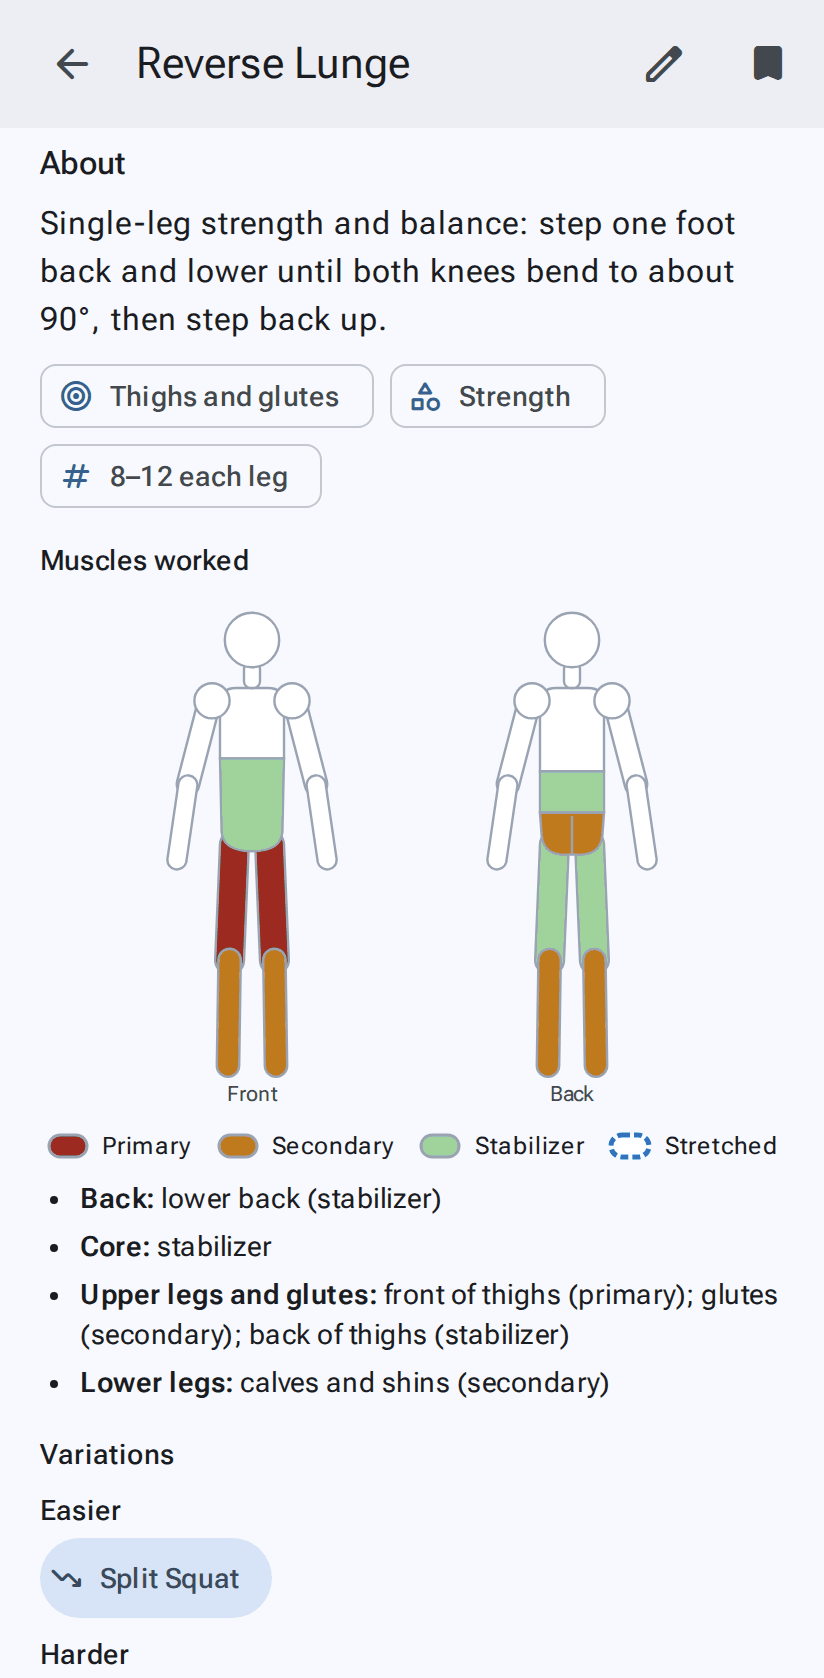
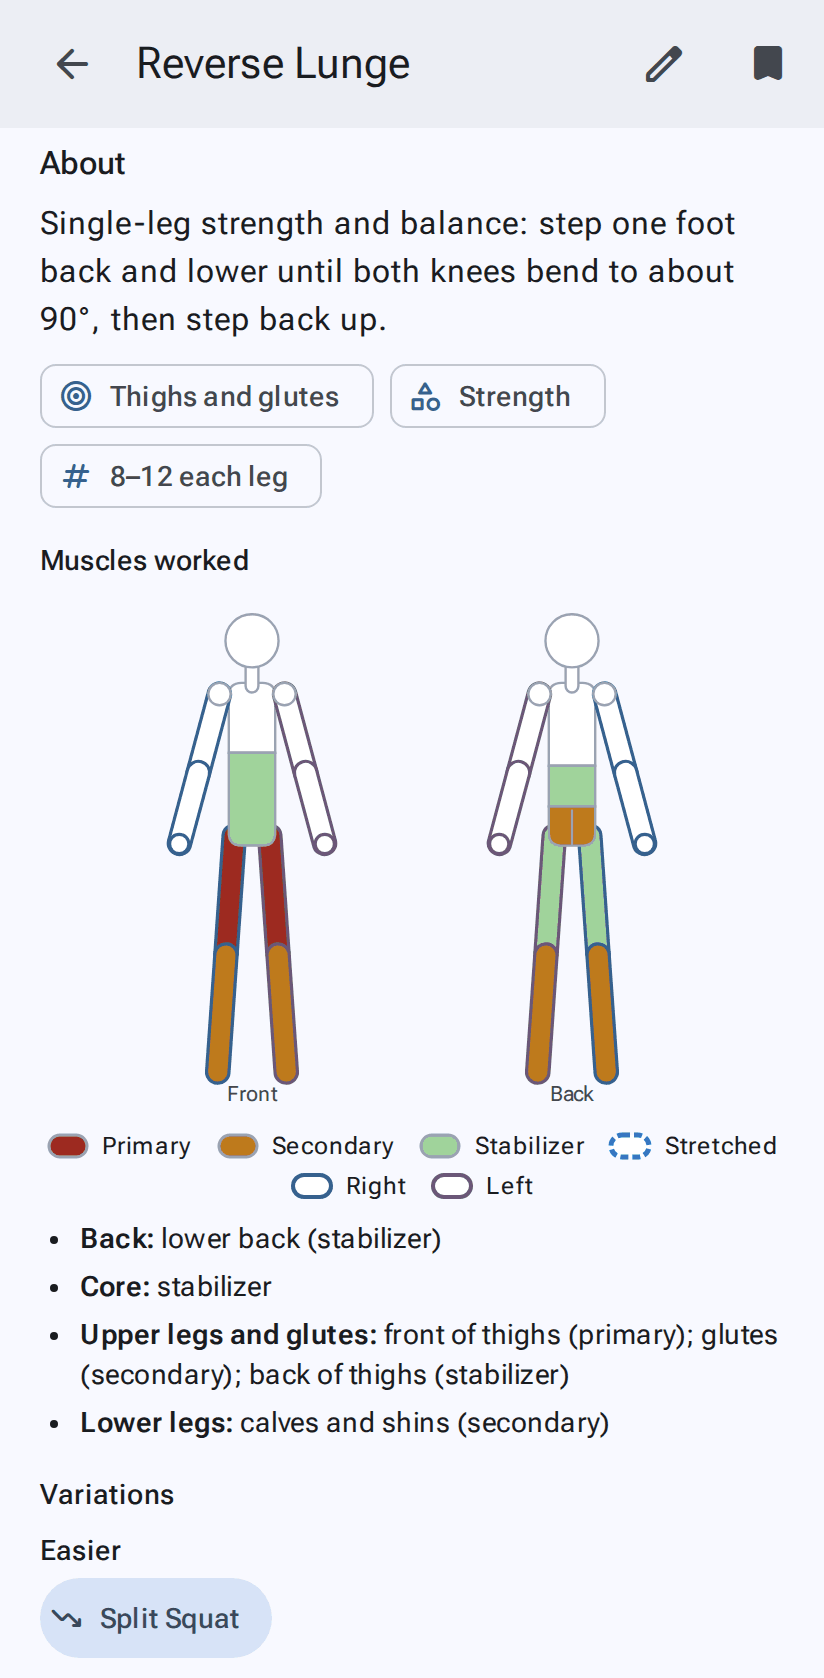
Muscle map: the animated figure's own body, limbs in the side colours
The map's outline is drawn from the engine's standing body (DEFAULT_SEGMENTS,
arms 15° out, feet apart) at cameras 0 and 180: even 14-wide limbs, a 29-wide
torso split into its groups, limb-wide shoulder circles at the arm joints, a short
neck, hands and feet; each limb outlined in its side's colour as in the player,
with Right and Left in the legends.

Claude-Session: https://claude.ai/code/session_0133kyx5MPf8aRU2sQwm2BG7

diff --git a/src/app/2-muscles.js b/src/app/2-muscles.js
@@ -1,6 +1,6 @@
 /* ===================== Muscle groups (HANDOFF §13, docs/muscles.md) =====================
    Each exercise rates 11 groups 1–3 ("muscles": 3 primary, 2 secondary, 1 stabilizer) and lists the groups it
-   stretches. The exercise page shows them on a front and back outline of the stick figure (capsule limbs, round head),
+   stretches. The exercise page shows them on a front and back outline of the stick figure (its own standing body),
    coloured by rating (the --mg-* colours: darker = more in the light theme, brighter = more in the dark one), stretched
    groups outlined in dashed blue, with a legend and a text list. A user's copy of a library exercise (basedOn) that
    has no ratings of its own shows its original's. */
@@ -79,7 +79,7 @@ function workoutMusclesHTML(w, compact) {
   const words = g => [t[g] >= 0.05 ? mgNum(t[g]) : '', st.has(g) ? 'stretched' : ''].filter(Boolean).join(', ');
   const list = MUSCLE_HEADS.map(([h, gs]) => { const x = gs.filter(g => t[g] >= 0.05 || st.has(g));
     return x.length ? `<li><b>${h}:</b> ${x.map(g => MUSCLE_NAMES[g] === h ? words(g) : `${MUSCLE_NAMES[g].toLowerCase()} ${words(g)}`).join('; ')}</li>` : ''; }).join('');
-  return `${fig}${MG_SCALE}${stList.length ? `<div class="mg-legend body-small" aria-hidden="true">${mgSwatch('var(--mg-empty)', true, 'Stretched')}</div>` : ''}<p class="body-small muted mg-note">Estimated work, in sets: green up to 2, amber 2–5, red above 5. A set near the suggested reps counts 1; muscles that help count ½, those that steady you ¼. Stretches don't add to the sets: a dashed blue outline marks every group the workout stretches.${unrated ? ` ${plural(unrated, { one: '# exercise has', other: '# exercises have' })} no muscle ratings.` : ''}</p>
+  return `${fig}${MG_SCALE}<div class="mg-legend body-small" aria-hidden="true">${stList.length ? mgSwatch('var(--mg-empty)', true, 'Stretched') : ''}${mgSides()}</div><p class="body-small muted mg-note">Estimated work, in sets: green up to 2, amber 2–5, red above 5. A set near the suggested reps counts 1; muscles that help count ½, those that steady you ¼. Stretches don't add to the sets: a dashed blue outline marks every group the workout stretches.${unrated ? ` ${plural(unrated, { one: '# exercise has', other: '# exercises have' })} no muscle ratings.` : ''}</p>
     <ul class="mg-list body-medium">${list}</ul>`;
 }
 /* "Works the front of thighs and glutes" for a card's label */
@@ -88,33 +88,57 @@ function worksText(ex) {
   const p = MUSCLE_GROUPS.filter(g => r.muscles[g] === 3).map(g => MUSCLE_NAMES[g].toLowerCase());
   return p.length ? `Works ${p.length > 1 ? p.slice(0, -1).join(', ') + ' and ' + p[p.length - 1] : p[0]}` : '';
 }
-/* the outline: fill(g) gives a group's fill (null = empty), stretched(g) whether it's outlined as stretched */
+/* The outline is the animated figure itself (owner, Oct 2026: shaped alike): the engine's standing body, arms 15° out
+   and feet a little apart, seen from the front (camera 0) and the back (180), drawn as even capsules along its bones
+   (MG_LIMB wide), a slimmer torso split into its groups, the shoulders as limb-wide circles at the arm joints, a short
+   neck, the head, and plain hands and feet. Each limb is outlined in its side's colour, as in the player (right blue,
+   left purple: seen from the front, the figure's right is on the left). fill(g) gives a group's fill (null = empty),
+   stretched(g) whether it's outlined as stretched (dashed, over the side colour). */
+const MG_LIMB = 14, MG_TORSO = 29;
+let MG_BODY = null;
+function mgBody() {
+  if (MG_BODY) return MG_BODY;
+  const seg = DEFAULT_SEGMENTS, pose = normPose({ shoulderL: [0, 15, 0], shoulderR: [0, 15, 0], hipL: [0, 4, 0], hipR: [0, 4, 0] });
+  const P = fkAt(pose, seg, { x: 0, y: 0, z: 0 }), low = Math.min(...Object.values(P).map(q => q.y));
+  for (const k in P) P[k] = { ...P[k], y: P[k].y - low };
+  // screen points of each view, scaled so the head's top is at 12 and the floor at 300 (of the 326-high map)
+  const top = P.headTop.y + 2, s = 288 / top;
+  const view = yaw => { const Q = project(P, yaw), out = {}; for (const k in Q) out[k] = { x: 100 + (Q[k].x - CX) * s, y: 300 - (FLOOR - Q[k].y) * s }; return out; };
+  return (MG_BODY = { front: view(0), back: view(180), s, head: seg.head * s });
+}
 function muscleFigure(fill, stretched, label) {
-  const f = n => n.toFixed(1);
-  const attrs = g => { const s = stretched(g); return `fill="${fill(g) || 'var(--mg-empty)'}" stroke="${s ? 'var(--mg-stretch)' : 'var(--mg-line)'}" stroke-width="${s ? 4 : 1.5}"${s ? ' stroke-dasharray="6 3"' : ''}`; };
-  const cap = (x1, y1, x2, y2, w, g) => {
-    const len = Math.hypot(x2 - x1, y2 - y1), r = w / 2, nx = -(y2 - y1) / len * r, ny = (x2 - x1) / len * r;
-    return `<path d="M${f(x1 + nx)} ${f(y1 + ny)}L${f(x2 + nx)} ${f(y2 + ny)}A${r} ${r} 0 0 0 ${f(x2 - nx)} ${f(y2 - ny)}L${f(x1 - nx)} ${f(y1 - ny)}A${r} ${r} 0 0 0 ${f(x1 + nx)} ${f(y1 + ny)}Z" ${attrs(g)}/>`;
+  const f = n => n.toFixed(1), B = mgBody();
+  // a part's fill and outline: the side's colour for a limb, the line colour for the body; stretched: dashed blue
+  const attrs = (g, side) => { const st = g && stretched(g), line = side === 'R' ? 'var(--md-primary)' : side === 'L' ? 'var(--md-tertiary)' : 'var(--mg-line)';
+    return `fill="${(g && fill(g)) || 'var(--mg-empty)'}" stroke="${st ? 'var(--mg-stretch)' : line}" stroke-width="${st ? 4 : side ? 2 : 1.5}"${st ? ' stroke-dasharray="6 3"' : ''}`; };
+  const cap = (a, b, w, g, side) => {
+    const len = Math.hypot(b.x - a.x, b.y - a.y) || 0.01, r = w / 2, nx = -(b.y - a.y) / len * r, ny = (b.x - a.x) / len * r;
+    return `<path d="M${f(a.x + nx)} ${f(a.y + ny)}L${f(b.x + nx)} ${f(b.y + ny)}A${r} ${r} 0 0 0 ${f(b.x - nx)} ${f(b.y - ny)}L${f(a.x - nx)} ${f(a.y - ny)}A${r} ${r} 0 0 0 ${f(a.x + nx)} ${f(a.y + ny)}Z" ${attrs(g, side)}/>`;
   };
+  const dot = (p, r, g, side) => `<circle cx="${f(p.x)}" cy="${f(p.y)}" r="${f(r)}" ${attrs(g, side)}/>`;
   const view = (front, x0) => {
-    const X = x => x + x0;
-    const arm = d => { const sx = X(100 + d * 27), ex = X(100 + d * 40), hx = X(100 + d * 47);
-      return cap(sx, 70, ex, 120, 14, front ? 'biceps' : 'triceps') + cap(ex, 120, hx, 168, 12, 'biceps'); };
-    const leg = d => { const hx = X(100 + d * 11), kx = X(100 + d * 14), ax = X(100 + d * 15);
-      return cap(hx, 158, kx, 230, 18, front ? 'frontThigh' : 'backThigh') + cap(kx, 230, ax, 296, 14, 'lowerLegs'); };
-    const top = bottom => `M${X(80)} 70 Q${X(80)} 60 ${X(90)} 60 L${X(110)} 60 Q${X(120)} 60 ${X(120)} 70 L${X(120)} ${bottom} L${X(80)} ${bottom} Z`;
-    const torso = front
-      ? `<path d="${top(104)}" ${attrs('chest')}/><path d="M${X(80)} 104 L${X(120)} 104 L${X(119)} 150 Q${X(118)} 162 ${X(100)} 162 Q${X(82)} 162 ${X(81)} 150 Z" ${attrs('core')}/>`
-      : `<path d="${top(112)}" ${attrs('upperBack')}/><path d="M${X(80)} 112 L${X(120)} 112 L${X(120)} 138 L${X(80)} 138 Z" ${attrs('lowerBack')}/>
-         <path d="M${X(80)} 138 L${X(120)} 138 L${X(119)} 152 Q${X(118)} 166 ${X(100)} 164 Q${X(82)} 166 ${X(81)} 152 Z" ${attrs('glutes')}/>
-         <line x1="${X(100)}" y1="140" x2="${X(100)}" y2="164" stroke="var(--mg-line)" stroke-width="1.5"/>`;
-    const shoulders = [-1, 1].map(d => `<circle cx="${X(100 + d * 25)}" cy="68" r="11" ${attrs('shoulders')}/>`).join('');
-    return `${leg(-1)}${leg(1)}${arm(-1)}${arm(1)}${torso}${shoulders}
-      <rect x="${X(95)}" y="44" width="10" height="16" rx="4" fill="var(--mg-empty)" stroke="var(--mg-line)" stroke-width="1.5"/><circle cx="${X(100)}" cy="30" r="17" fill="var(--mg-empty)" stroke="var(--mg-line)" stroke-width="1.5"/>
-      <text x="${X(100)}" y="318" text-anchor="middle" font-size="13" fill="var(--md-on-surface-variant)">${front ? 'Front' : 'Back'}</text>`;
+    const V = front ? B.front : B.back, Q = {}; for (const k in V) Q[k] = { x: V[k].x + x0, y: V[k].y };
+    const legs = ['L', 'R'].map(d => cap(Q['ankle' + d], Q['toe' + d], 10, null, d) +
+      cap(Q['hip' + d], Q['knee' + d], MG_LIMB, front ? 'frontThigh' : 'backThigh', d) + cap(Q['knee' + d], Q['ankle' + d], MG_LIMB, 'lowerLegs', d)).join('');
+    const arms = ['L', 'R'].map(d => cap(Q['shoulder' + d], Q['elbow' + d], MG_LIMB, front ? 'biceps' : 'triceps', d) +
+      cap(Q['elbow' + d], Q['hand' + d], MG_LIMB, 'biceps', d) + dot(Q['hand' + d], 6.5 * B.s, null, d)).join('');
+    // the torso: from the shoulders to just below the hips, MG_TORSO wide, rounded at the shoulders; split into its groups
+    const cx = (Q.shoulderL.x + Q.shoulderR.x) / 2, l = cx - MG_TORSO / 2, rgt = cx + MG_TORSO / 2;
+    const y0 = Math.min(Q.shoulderL.y, Q.shoulderR.y) - MG_LIMB / 2, y1 = Math.max(Q.hipL.y, Q.hipR.y) + 6, at = t => y0 + (y1 - y0) * t, rr = 8;
+    const box = (a, b, g, roundTop, roundBottom) => `<path d="M${f(l)} ${f(a + (roundTop ? rr : 0))}${roundTop ? `Q${f(l)} ${f(a)} ${f(l + rr)} ${f(a)}L${f(rgt - rr)} ${f(a)}Q${f(rgt)} ${f(a)} ${f(rgt)} ${f(a + rr)}` : `L${f(rgt)} ${f(a)}`}` +
+      `L${f(rgt)} ${f(b - (roundBottom ? rr : 0))}${roundBottom ? `Q${f(rgt)} ${f(b)} ${f(rgt - rr)} ${f(b)}L${f(l + rr)} ${f(b)}Q${f(l)} ${f(b)} ${f(l)} ${f(b - rr)}` : `L${f(l)} ${f(b)}`}Z" ${attrs(g)}/>`;
+    const torso = front ? box(y0, at(0.43), 'chest', true, false) + box(at(0.43), y1, 'core', false, true)
+      : box(y0, at(0.51), 'upperBack', true, false) + box(at(0.51), at(0.76), 'lowerBack', false, false) + box(at(0.76), y1, 'glutes', false, true) +
+        `<line x1="${f(cx)}" y1="${f(at(0.78))}" x2="${f(cx)}" y2="${f(y1)}" stroke="var(--mg-line)" stroke-width="1.5"/>`;
+    const shoulders = ['L', 'R'].map(d => dot(Q['shoulder' + d], MG_LIMB / 2, 'shoulders')).join('');
+    const neck = cap({ x: cx, y: y0 + 2 }, { x: Q.head.x, y: Q.head.y + B.head - 2 }, 8, null);
+    return `${legs}${torso}${arms}${shoulders}${neck}${dot(Q.head, B.head, null)}
+      <text x="${100 + x0}" y="318" text-anchor="middle" font-size="13" fill="var(--md-on-surface-variant)">${front ? 'Front' : 'Back'}</text>`;
   };
   return `<svg class="mg-map" viewBox="0 0 400 326" role="img" aria-label="${esc(label)}">${view(true, 0)}${view(false, 200)}</svg>`;
 }
+/* the side colours' key (the limbs' outlines, as in the player) */
+const mgSides = () => ['R', 'L'].map(d => `<span class="mg-key"><svg width="22" height="14" aria-hidden="true"><rect x="1.5" y="1.5" width="19" height="11" rx="5.5" fill="var(--mg-empty)" stroke="var(--md-${d === 'R' ? 'primary' : 'tertiary'})" stroke-width="2"/></svg>${d === 'R' ? 'Right' : 'Left'}</span>`).join('');
 /* one swatch of the legend */
 const mgSwatch = (fill, stretch, label) => `<span class="mg-key"><svg width="22" height="14" aria-hidden="true"><rect x="1.5" y="1.5" width="19" height="11" rx="5.5" fill="${fill}" stroke="${stretch ? 'var(--mg-stretch)' : 'var(--mg-line)'}" stroke-width="${stretch ? 2.5 : 1.5}"${stretch ? ' stroke-dasharray="4 2"' : ''}/></svg>${label}</span>`;
 /* the exercise page's section: map, legend, and a list under the seven headings */
@@ -128,6 +152,6 @@ function musclesHTML(ex) {
   const label = MUSCLE_GROUPS.filter(g => m[g] || s.includes(g)).map(g => `${MUSCLE_NAMES[g]}: ${words(g)}`).join('. ');
   return `<section class="muscles" aria-labelledby="musclesTitle"><h3 class="title-small" id="musclesTitle">Muscles${s.length ? (Object.keys(m).length ? ' worked and stretched' : ' stretched') : ' worked'}</h3>
     ${muscleFigure(g => m[g] ? `var(--mg-${m[g]})` : null, g => s.includes(g), 'Muscle map. ' + label)}
-    <div class="mg-legend body-small" aria-hidden="true">${[3, 2, 1].map(v => mgSwatch(`var(--mg-${v})`, false, RATING_NAMES[v])).join('')}${mgSwatch('var(--mg-empty)', true, 'Stretched')}</div>
+    <div class="mg-legend body-small" aria-hidden="true">${[3, 2, 1].map(v => mgSwatch(`var(--mg-${v})`, false, RATING_NAMES[v])).join('')}${mgSwatch('var(--mg-empty)', true, 'Stretched')}${mgSides()}</div>
     <ul class="mg-list body-medium">${list}</ul></section>`;
 }

diff --git a/tools/e2e/muscles.py b/tools/e2e/muscles.py
@@ -18,7 +18,7 @@ async def main():
         check('section title', await pg.evaluate("$('#musclesTitle').textContent"), 'Muscles worked')
         check('map parts filled', await pg.evaluate("[...document.querySelectorAll('.mg-map [fill^=\"var(--mg-\"]')].map(e => e.getAttribute('fill')).filter(f => f !== 'var(--mg-empty)').length"), 11)
         check('squat list', await pg.evaluate("[...document.querySelectorAll('.mg-list li')].map(li => li.textContent)"), ['Back: lower back (stabilizer)', 'Core: stabilizer', 'Upper legs and glutes: front of thighs (primary); glutes (secondary); back of thighs (stabilizer)', 'Lower legs: calves and shins (secondary)'])
-        check('legend', await pg.evaluate("$('.mg-legend').textContent"), 'PrimarySecondaryStabilizerStretched')
+        check('legend', await pg.evaluate("$('.mg-legend').textContent"), 'PrimarySecondaryStabilizerStretchedRightLeft', 'the side colours too (the limbs are outlined in them)')
         check('light primary colour', await pg.evaluate("getComputedStyle(document.documentElement).getPropertyValue('--mg-3').trim()"), '#9d2a20')
         await pg.goto(URL + '#/play/yoga-low-lunge'); await pg.wait_for_timeout(500)
         check('low lunge title', await pg.evaluate("$('#musclesTitle').textContent"), 'Muscles worked and stretched')

diff --git a/HANDOFF.md b/HANDOFF.md
@@ -413,7 +413,12 @@ too), `backThigh` (hamstrings), `lowerLegs` (calves, shins).
   compares). Ratings follow ExRx's target / synergist / stabilizer; rules and judgment calls: `docs/muscles.md`.
 - The build **warns** when most of an equipment group is for a muscle group (3) and one member doesn't work it.
 - A user's copy (`basedOn`) carries its original's ratings (copied with it; one without shows its original's).
-- The exercise page's About shows them (`src/app/2-muscles.js`): a front and back outline of the figure, each group
+- The exercise page's About shows them (`src/app/2-muscles.js`): a front and back outline of the figure (`muscleFigure`:
+  the animated figure itself, `mgBody`: the engine's standing body from `DEFAULT_SEGMENTS`, arms 15° out and feet a little
+  apart, projected at cameras 0 and 180; even capsules `MG_LIMB` 14 wide along its bones, a `MG_TORSO` 29-wide torso
+  split into its groups, the shoulders limb-wide circles at the arm joints, a short neck, the head, plain hands and
+  feet; each limb outlined in its side's colour as in the player, right blue, left purple, with Right and Left in the
+  legend; the figure's right is on the left seen from the front), each group
   filled by rating (`--mg-1`…`--mg-3` in `src/head.html`: lighter to darker in the light theme, darker to brighter in
   the dark one, so the order reads in greyscale), stretched groups outlined in dashed blue (`--mg-stretch`), a legend,
   and a list under seven headings (arms, shoulders, chest, back, core, upper legs and glutes, lower legs). Test:

diff --git a/docs/history.md b/docs/history.md
@@ -265,6 +265,13 @@ By the HANDOFF section that describes the current behaviour.
 - Oct 2026, owner: Head-to-Knee (close to Bound Angle Forward Bend) and Clamshell? Head-to-Knee and Revolved
   Head-to-Knee tilted; Clamshell's knee opens upward, which a level camera shows best (every tilt read worse).
 
+### The muscle map's figure (Oct 2026)
+
+- Oct 2026: the map's outline was drawn by hand (legs 1.35× the torso against the animated figure's 1.6×, tapered
+  limbs 12–18 wide, a 40-wide torso, shoulder circles of radius 11, a neck block, no hands or feet, grey outlines).
+  Owner's choice from the options offered: drawn from the engine's own body, even limbs, a slimmer torso, limb-wide
+  shoulders, a short neck, hands and feet, the side colours on the limbs (not the filled head).
+
 ### 20-minute workouts and the default instruction (Oct 2026)
 
 - Oct 2026: the default was NstructR (`voice`) and the five 20-minute workouts were timed with it (19–21 min); with

diff --git a/wiki/Exercises.md b/wiki/Exercises.md
@@ -78,6 +78,8 @@ About shows which muscle groups an exercise works on a front and back outline of
 - **Primary** (red): what the exercise is for. **Secondary** (amber): muscles that help move the load.
   **Stabilizer** (green): muscles that hold you steady. Unfilled: not worked.
 - A **dashed blue outline**: that group is stretched.
+- The figure is the same one that does the exercises. Its limbs are outlined in the player's side colours: **right**
+  blue, **left** purple. Seen from the front, its right side is on your left.
 - The list below the figure says the same in words, under Arms, Shoulders, Chest, Back, Core, Upper legs and glutes,
   and Lower legs. The colours get darker the more a muscle works (brighter in the dark theme).
 - Eleven groups: shoulders, chest, upper back, lower back, biceps and forearms, triceps, core, front of thighs (with the
